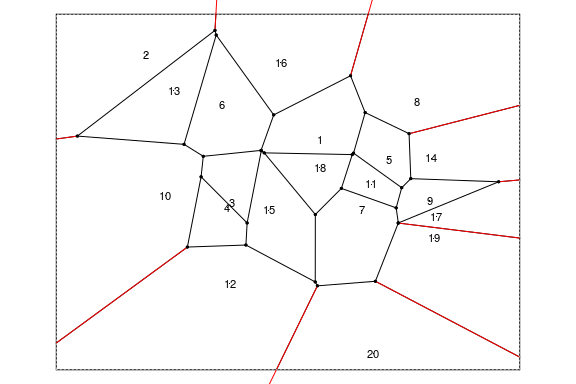
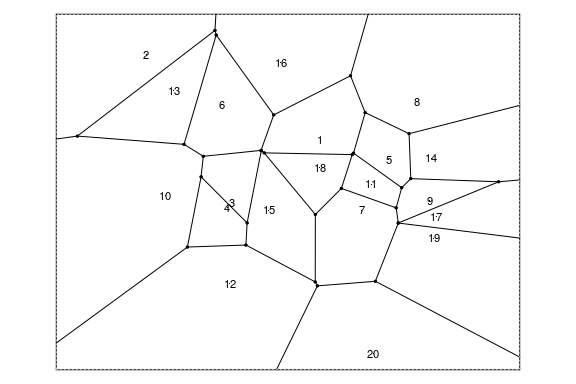
Use NA for vertex indicies for infinite/semi-infinite segments

diff --git a/src/R-voronoi.c b/src/R-voronoi.c
@@ -281,9 +281,8 @@ SEXP voronoi_(SEXP x_, SEXP y_, SEXP calc_polygons_, SEXP match_sites_, SEXP bou
     memcpy(v1m   + fnedges, rv1, nbsegs * sizeof(int));
     memcpy(v2m   + fnedges, rv2, nbsegs * sizeof(int));
     for (int i = 0; i < nbsegs; i++) {
-      (linem + fnedges)[i] = -99;
+      (linem + fnedges)[i] = INVALID_VIDX;
     }
-    // memset(linem + fnedges, -99, nbsegs * sizeof(int));
     
     free(xb);
     free(yb);
@@ -341,9 +340,9 @@ SEXP voronoi_(SEXP x_, SEXP y_, SEXP calc_polygons_, SEXP match_sites_, SEXP bou
     }
     
     
-    convert_indexing_c_to_r(linem_);
-    convert_indexing_c_to_r(v1m_);
-    convert_indexing_c_to_r(v2m_);
+    convert_indexing_c_to_r_with_NA(linem_);
+    convert_indexing_c_to_r_with_NA(v1m_);
+    convert_indexing_c_to_r_with_NA(v2m_);
     
   }  // End: if (calc_polygons)
   
@@ -424,9 +423,9 @@ SEXP voronoi_(SEXP x_, SEXP y_, SEXP calc_polygons_, SEXP match_sites_, SEXP bou
   //~~~~~~~~~~~~~~~~~~~~~~~~~~~~~~~~~~~~~~~~~~~~~~~~~~~~~~~~~~~~~~~~~~~~~~~~~~~
   // Convert C 0-indexing to R 1-indexing
   //~~~~~~~~~~~~~~~~~~~~~~~~~~~~~~~~~~~~~~~~~~~~~~~~~~~~~~~~~~~~~~~~~~~~~~~~~~~
-  convert_indexing_c_to_r(seg_line_);
-  convert_indexing_c_to_r(seg_v1_);
-  convert_indexing_c_to_r(seg_v2_);
+  convert_indexing_c_to_r_with_NA(seg_line_);
+  convert_indexing_c_to_r_with_NA(seg_v1_);
+  convert_indexing_c_to_r_with_NA(seg_v2_);
   
   
   

diff --git a/src/R-merge-vertices.c b/src/R-merge-vertices.c
@@ -342,9 +342,9 @@ SEXP merge_vertices_(SEXP x_, SEXP y_,
   memcpy(INTEGER(fline_), INTEGER(line_), nsegs * sizeof(int));
   
   // Convert them to C 0-indexing for processing
-  convert_indexing_r_to_c(fv1_);
-  convert_indexing_r_to_c(fv2_);
-  convert_indexing_r_to_c(fline_);
+  convert_indexing_r_to_c_with_NA(fv1_);
+  convert_indexing_r_to_c_with_NA(fv2_);
+  convert_indexing_r_to_c_with_NA(fline_);
   
   // for (int i = 0; i < length(fv2_); i++) {
   //   Rprintf("(%i) v2[%i] = %i    =   fv2[%i] = %i\n", nsegs, i, INTEGER(v2_)[i], i, INTEGER(fv2_)[i]);
@@ -362,9 +362,9 @@ SEXP merge_vertices_(SEXP x_, SEXP y_,
   trim_vec(fv2_  , nsegs_final, nsegs);
   trim_vec(fline_, nsegs_final, nsegs);
   
-  convert_indexing_c_to_r(fv1_);
-  convert_indexing_c_to_r(fv2_);
-  convert_indexing_c_to_r(fline_);
+  convert_indexing_c_to_r_with_NA(fv1_);
+  convert_indexing_c_to_r_with_NA(fv2_);
+  convert_indexing_c_to_r_with_NA(fline_);
   
   
   SEXP res_ = PROTECT(

diff --git a/src/utils.c b/src/utils.c
@@ -139,6 +139,7 @@ void convert_indexing_r_to_c(SEXP ivec_) {
 //~~~~~~~~~~~~~~~~~~~~~~~~~~~~~~~~~~~~~~~~~~~~~~~~~~~~~~~~~~~~~~~~~~~~~~~~~~~
 // Increment integer values by 1 to convert from C 0-indexing to
 // R 1-indexing
+// C values of INVALID_VIDX are translated to integer NA
 //~~~~~~~~~~~~~~~~~~~~~~~~~~~~~~~~~~~~~~~~~~~~~~~~~~~~~~~~~~~~~~~~~~~~~~~~~~~
 void convert_indexing_c_to_r_with_NA(SEXP ivec_) {
   int *ivec = INTEGER(ivec_);
@@ -156,6 +157,7 @@ void convert_indexing_c_to_r_with_NA(SEXP ivec_) {
 //~~~~~~~~~~~~~~~~~~~~~~~~~~~~~~~~~~~~~~~~~~~~~~~~~~~~~~~~~~~~~~~~~~~~~~~~~~~
 // Decrement integer values by 1 to convert from R 1-indexing to
 // C 0-indexing
+// Integer NA values are translated to INVALID_VIDX
 //~~~~~~~~~~~~~~~~~~~~~~~~~~~~~~~~~~~~~~~~~~~~~~~~~~~~~~~~~~~~~~~~~~~~~~~~~~~
 void convert_indexing_r_to_c_with_NA(SEXP ivec_) {
   int *ivec = INTEGER(ivec_);

diff --git a/src/R-infinite-segments.c b/src/R-infinite-segments.c
@@ -568,8 +568,8 @@ SEXP bound_infinite_segments_(
   //~~~~~~~~~~~~~~~~~~~~~~~~~~~~~~~~~~~~~~~~~~~~~~~~~~~~~~~~~~~~~~~~~~~~~~~~~~~
   // Segment
   //~~~~~~~~~~~~~~~~~~~~~~~~~~~~~~~~~~~~~~~~~~~~~~~~~~~~~~~~~~~~~~~~~~~~~~~~~~~
-  convert_indexing_c_to_r(rv1_);
-  convert_indexing_c_to_r(rv2_);
+  convert_indexing_c_to_r_with_NA(rv1_);
+  convert_indexing_c_to_r_with_NA(rv2_);
 
   
   SEXP segments_ = PROTECT(

diff --git a/README.md b/README.md
@@ -265,12 +265,12 @@ bench::mark(
 
 | expression |      min |   median |    itr/sec | mem_alloc |
 |:-----------|---------:|---------:|-----------:|----------:|
-| rvoronoi   | 736.29µs | 743.75µs | 1296.01386 |  162.78KB |
-| rvoronoi   | 725.64µs | 732.97µs | 1340.86983 |   23.58KB |
-| rvoronoi   |  729.8µs | 736.36µs | 1326.22029 |   39.07KB |
-| rvoronoi   |   1.17ms |   1.19ms |  801.66649 |  163.41KB |
-| rtriangle  |   1.46ms |   1.51ms |  624.80380 |  292.63KB |
-| deldir     |  24.02ms |  24.44ms |   40.53842 |    5.67MB |
+| rvoronoi   | 736.81µs | 744.98µs | 1328.60692 |  162.78KB |
+| rvoronoi   | 726.17µs | 735.38µs | 1315.61039 |   23.58KB |
+| rvoronoi   |  729.6µs | 737.62µs | 1254.16483 |   39.07KB |
+| rvoronoi   |   1.18ms |   1.22ms |  715.48243 |  163.41KB |
+| rtriangle  |   1.46ms |   1.54ms |  529.78681 |  292.63KB |
+| deldir     |  24.41ms |  25.16ms |   38.68707 |    5.67MB |
 
 # Voronoi Tessellation Benchmark
 
@@ -370,10 +370,10 @@ bench::mark(
 )[,1:5] |> knitr::kable()
 ```
 
-| expression                 |      min |   median |   itr/sec | mem_alloc |
-|:---------------------------|---------:|---------:|----------:|----------:|
-| rvoronoi (match RTriangle) | 753.59µs | 765.63µs | 1160.7206 |     137KB |
-| RTriangle                  |   1.47ms |   1.53ms |  554.1623 |     293KB |
+| expression                 |     min |   median |   itr/sec | mem_alloc |
+|:---------------------------|--------:|---------:|----------:|----------:|
+| rvoronoi (match RTriangle) | 759.1µs | 773.86µs | 1164.2230 |     137KB |
+| RTriangle                  |  1.46ms |   1.52ms |  618.5091 |     293KB |
 
 ### Voronoi - polygons
 
@@ -388,11 +388,11 @@ bench::mark(
 #> disabled.
 ```
 
-| expression                    |     min |   median |    itr/sec | mem_alloc |
-|:------------------------------|--------:|---------:|-----------:|----------:|
-| rvoronoi (matched polygons)   |  5.55ms |   5.91ms | 165.316634 |   438.2KB |
-| rvoronoi (unmatched polygons) |  4.21ms |   4.32ms | 221.682578 |   438.2KB |
-| deldir                        | 373.8ms | 388.63ms |   2.573106 |    52.1MB |
+| expression                    |      min |   median |    itr/sec | mem_alloc |
+|:------------------------------|---------:|---------:|-----------:|----------:|
+| rvoronoi (matched polygons)   |   6.17ms |   6.45ms | 147.934029 |   438.2KB |
+| rvoronoi (unmatched polygons) |   4.79ms |   4.96ms | 165.933238 |   438.2KB |
+| deldir                        | 547.91ms | 547.91ms |   1.825103 |    52.1MB |
 
 # Pathological Test Cases
 
